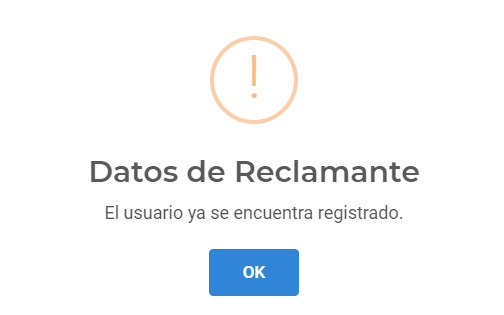
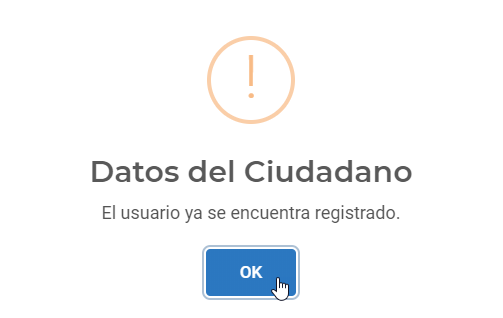
Realizando detalles en crear orden servicio. Ayuda de usuario para usuario municipal y operativo

diff --git a/src/app/pages/crear-orden-servicio/crear-orden-servicio.component.html b/src/app/pages/crear-orden-servicio/crear-orden-servicio.component.html
@@ -7,20 +7,23 @@
                     <div class="form-row">
                         <div class="col-md-6">
                             <label>FECHA DESDE</label>
-                            <input formControlName="fechaDesde" class="form-control" type="date" [max]="maxDate" matTooltip="Seleccionar fecha desde" matTooltipPosition="above">
+                            <input formControlName="fechaDesde" class="form-control" type="date" matTooltip="Seleccionar fecha desde" matTooltipPosition="above">
                         </div>
                         <div class="col-md-6">
                             <label>FECHA HASTA</label>
-                            <input formControlName="fechaHasta" class="form-control" type="date" [max]="maxDate" matTooltip="Seleccionar fecha hasta" matTooltipPosition="above">
+                            <input formControlName="fechaHasta" class="form-control" type="date" matTooltip="Seleccionar fecha hasta" matTooltipPosition="above">
                         </div>
                     </div>
                 </div>
 
                 <div class="row">
                     <div class="col-md-8">
-                        <button class="btn btn-block btnPrimario myBtnCard">
+                        <button (click)="selectReclamo()" class="btn btn-block btnPrimario myBtnCard">
                             Buscar <i class="fa fa-fw fa-search"></i>
                         </button>
+                    </div>
+                    <div class="col-md-4">
+                        <button (click)="this.frmCrearOrdenServicio.reset()" mat-mini-fab class="btnFiltro" class="btnLimpiar" matTooltip="Limpiar campos" matTooltipPosition="left"><i class="material-icons">clear</i></button>
                     </div>
                 </div>
             </form>
@@ -73,6 +76,11 @@
                 <td mat-cell *matCellDef="let element">{{ element.bar_nombre }}</td>
             </ng-container>
 
+            <ng-container matColumnDef="pri_nombre">
+                <th mat-header-cell *matHeaderCellDef>Proridad</th>
+                <td mat-cell *matCellDef="let element">{{ element.pri_nombre }}</td>
+            </ng-container>
+
             <tr mat-header-row *matHeaderRowDef="displayedColumns"></tr>
             <tr mat-row *matRowDef="let row; columns: displayedColumns;" (click)="selection.toggle(row)">
             </tr>
@@ -87,11 +95,11 @@
 <div id="seccionSiguiente" style="visibility: hidden;">
     <div class="form-group" style="float: left !important;">
         <div class="text-center lblCampoObligatorio">
-            *Para generar una Orden de Servicio seleccione al menos 1 reclamo.
+            *Para generar una Orden de Servicio seleccione al menos un reclamo.
         </div>
     </div>
 
-    <button (click)="registrarOrdenServicio()" [disabled]="selection.selected.length === 0" class="btn btn-block btnSiguiente" matTooltip="Registrar Orden de Servicio" matTooltipPosition="left">
+    <button mat-raised-button (click)="registrarOrdenServicio()" [disabled]="selection.selected.length === 0" color="primary" matTooltip="Registrar Orden de Servicio" matTooltipPosition="left" style="float: right;">
         Siguiente <i class="fa fa-fw fa-chevron-right"></i>
     </button>
 </div>

diff --git a/src/app/pages/admin-operativo/reclamo/reclamo.component.html b/src/app/pages/admin-operativo/reclamo/reclamo.component.html
@@ -1,11 +1,11 @@
 <div class="row">
     <div class="col-md-4">
         <mat-form-field>
-            <input matInput (keyup)="applyFilter($event.target.value)" placeholder="Reclamo">
+            <input matInput (keyup)="applyFilter($event.target.value)" placeholder="Tipo de Reclamo">
         </mat-form-field>
         <table mat-table [dataSource]="dataSource" class="mat-elevation-z8">
             <ng-container matColumnDef="tipRec_nombre">
-                <th mat-header-cell *matHeaderCellDef style="width: 300px;">Reclamo</th>
+                <th mat-header-cell *matHeaderCellDef style="width: 300px;">Tipo de Reclamo</th>
                 <td mat-cell *matCellDef="let element">{{ element.tipRec_nombre }}</td>
             </ng-container>
 
@@ -34,9 +34,6 @@
                             <div class="form-row">
                                 <label>NOMBRE*</label>
                                 <input id="txtReclamo" matInput formControlName="nombre" [(ngModel)]="inputRec" type="text" class="form-control inputAbm" placeholder="Ingrese nombre de Tipo de Reclamo">
-                                <button mat-button *ngIf="inputRec !== ''" (click)="resetForm('reclamo')" matSuffix mat-icon-button aria-label="Clear" matTooltip="Borrar texto">
-                                    <i class="material-icons">clear</i>
-                                </button>
                             </div>
                             <br>
                             <div class="form-row">
@@ -46,16 +43,18 @@
                                         {{ item.pri_nombre }}
                                     </mat-option>
                                 </mat-select>
-                                <button mat-button (click)="resetForm('prioridad')" matSuffix mat-icon-button aria-label="Clear" matTooltip="Cancelar selección">
-                                    <i class="material-icons">clear</i>
-                                </button>
                             </div>
                         </div>
                         <div class="form-group">
-                            <div class="col-md-8">
-                                <button id="btnClear" (click)="registrarTipoReclamo()" [disabled]="!frmTipoReclamo.valid" class="btn btn-block btnPrimario myBtnCard">
-                                    Guardar
-                                </button>
+                            <div class="form-row">
+                                <div class="col-md-8">
+                                    <button id="btnClear" (click)="registrarTipoReclamo()" [disabled]="!frmTipoReclamo.valid" class="btn btn-block btnPrimario myBtnCard">
+                                        Guardar
+                                    </button>
+                                </div>
+                                <div class="col-md-4">
+                                    <button (click)="resetForm()" mat-mini-fab class="btnFiltro" class="btnLimpiar" matTooltip="Limpiar campos" matTooltipPosition="left"><i class="material-icons">clear</i></button>
+                                </div>
                             </div>
                         </div>
                     </form>

diff --git a/src/app/pages/crear-orden-servicio/crear-orden-servicio.component.ts b/src/app/pages/crear-orden-servicio/crear-orden-servicio.component.ts
@@ -33,20 +33,18 @@ export class CrearOrdenServicioComponent implements OnInit {
 
   frmCrearOrdenServicio: FormGroup;
   user: Usuario;
+  fechaDesde: string;
+  fechaHasta: string;
+  ingresaFecha: boolean;
   // Objeto que almacena IDAreaServicio para salir a buscar los reclamos en estado "Sin Asignar"
-  objIDArServ: any = {};
+  objFiltro: any = {};
   IDAreaServicio: number;
+  lstReclamo: any = null;
 
-  displayedColumns: string[] = ['select', 'rec_fechaAlta', 'tipRec_nombre', 'rec_direccion', 'bar_nombre'];
+  displayedColumns: string[] = ['select', 'rec_fechaAlta', 'tipRec_nombre', 'rec_direccion', 'bar_nombre', 'pri_nombre'];
   dataSource: MatTableDataSource<ReclamoPendiente>;
   selection = new SelectionModel<ReclamoPendiente>(true, []);
   @ViewChild(MatPaginator, {static: true}) paginator: MatPaginator;
-
-  // VISTA
-  stFiltro: string;
-  objFiltro: any;
-  boFecha = false;
-  lstReclamo: any = null;
 
   constructor(private ddlService: SelectService,
               private router: Router,
@@ -58,24 +56,37 @@ export class CrearOrdenServicioComponent implements OnInit {
 
   ngOnInit() {
     this.frmCrearOrdenServicio = this.formBuilder.group({
-      fechaDesde: null,
-      fechaHasta: null,
-      tipoReclamo: [''],
-      prioridad: [''],
-      barrio: ['']
+      fechaDesde: [null, Validators.required],
+      fechaHasta: [null, Validators.required]
     });
 
-    // Select de Reclamos en estado "Sin Asignar", para añadir a la Orden de Servicio.
+    // Listado de reclamos en estado "Sin Asignar", para añadir a la Orden de Servicio.
+    this.selectReclamosSinAsignar();
+  }
+
+  selectReclamo() {
+    if (this.fechaDesde !== undefined && this.fechaHasta !== undefined) {
+      this.ingresaFecha = true;
+      this.fechaDesde = this.datePipe.transform(this.frmCrearOrdenServicio.controls.fechaDesde.value, 'dd/MM/yyyy');
+      this.fechaHasta = this.datePipe.transform(this.frmCrearOrdenServicio.controls.fechaHasta.value, 'dd/MM/yyyy');
+    }
+
     this.selectReclamosSinAsignar();
   }
 
   async selectReclamosSinAsignar() {
     try {
-      this.objIDArServ = {
-        usu_IDAreaServicio: this.user.usu_IDAreaServicio
-      };
+      if (this.ingresaFecha) {
+        this.objFiltro = {
+          stFiltro: `arServ_IDAreaServicio = ${this.user.usu_IDAreaServicio}` + ' and ' + `rec_fechaAlta between '${this.fechaDesde}'` + ' and ' + `'${this.fechaHasta}'`
+        };
+      } else {
+        this.objFiltro = {
+          stFiltro: `arServ_IDAreaServicio = ${this.user.usu_IDAreaServicio}`
+        };
+      }
 
-      this.reclamoService.selectReclamoSinAsignar(this.objIDArServ).subscribe(data => {
+      this.reclamoService.selectReclamoSinAsignar(this.objFiltro).subscribe(data => {
         if (data !== '[]') {
             this.lstReclamo = JSON.parse(data);
             this.dataSource = new MatTableDataSource<ReclamoPendiente>(this.lstReclamo);

diff --git a/src/app/shared/sidebar/sidebar.component.html b/src/app/shared/sidebar/sidebar.component.html
@@ -62,7 +62,7 @@
                             <span class="hide-menu">Dominio</span></a>
                     <ul aria-expanded="false" class="collapse">
                         <li>
-                            <a [routerLink]="'/area-servicio'" routerLinkActive="active">Area de Servicio</a>
+                            <a [routerLink]="'/area-servicio'" routerLinkActive="active">Área de Servicio</a>
                         </li>
                         <li>
                             <a [routerLink]="'/barrio'" routerLinkActive="active">Barrio</a>
@@ -106,6 +106,9 @@
                         <li>
                             <a [routerLink]="'/ayuda-reportes-municipal'" routerLinkActive="active">¿Cómo visualizar un Reporte?</a>
                         </li>
+                        <li>
+                            <a [routerLink]="'/ayuda-consultar-reclamo-municipal'" routerLinkActive="active">Dominio</a>
+                        </li>
                     </ul>
                 </li>
 
@@ -133,6 +136,21 @@
                         </li>
                         <li>
                             <a [routerLink]="'/usuario'" routerLinkActive="active">Usuario</a>
+                        </li>
+                    </ul>
+                </li>
+                <li *ngIf="user.usu_IDRol === 3 || user.usu_IDRol === 6">
+                    <a class="has-arrow waves-effect waves-dark" aria-expanded="false">
+                        <i class="material-icons">help</i><span class="hide-menu">Ayuda</span></a>
+                    <ul aria-expanded="false" class="collapse">
+                        <li>
+                            <a>¿Cómo registrar una Orden de Servicio?</a>
+                        </li>
+                        <li>
+                            <a>¿Cómo visualizar un Reporte?</a>
+                        </li>
+                        <li>
+                            <a>Dominio</a>
                         </li>
                     </ul>
                 </li>

diff --git a/src/app/pages/reporte/reporte.component.ts b/src/app/pages/reporte/reporte.component.ts
@@ -1,8 +1,8 @@
-import { Component, OnInit } from '@angular/core';
+import { Component, OnInit, ViewChild } from '@angular/core';
 import { FormGroup, FormBuilder, Validators } from '@angular/forms';
-import { ChartsModule, Label, MultiDataSet, SingleDataSet } from 'ng2-charts';
+import { Label } from 'ng2-charts';
 import { DatePipe } from '@angular/common';
-import { ChartType, ChartDataSets } from 'chart.js';
+import { ChartType, ChartOptions, ChartData } from 'chart.js';
 
 // ENTIDADES
 import { ReporteService } from '../../services/reporte.service';
@@ -12,6 +12,7 @@ import { Usuario } from '../../_entities/usuario.entities';
 // SERVICIOS
 import { SelectService } from '../../services/select-service.service';
 import { ReclamoService } from '../../services/reclamo.service';
+import * as Chart from 'chart.js';
 
 @Component({
   selector: 'app-reporte',
@@ -37,7 +38,9 @@ export class ReporteComponent implements OnInit {
     { stReporte: 'OrdServPorEstado', reporte: 'Reporte de Ordenes de Servicio por Estado' },
   ];
 
-  // Gráfico Circular
+  // GRAFICO CIRCULAR
+  // Para mostrar labels en el gráfico sin tener que pasar el cursor por encima
+  // public pieChartOptions: ChartOptions = { };
   public pieChartLabels: Label[] = [];
   public pieChartData: number[] = [];
   public pieChartType: ChartType = 'pie';
@@ -46,6 +49,7 @@ export class ReporteComponent implements OnInit {
       'rgba(151,90,251,0.85)', 'rgba(251,90,161,0.85)', 'rgba(205,98,205,0.85)', 'rgba(24,162,218,0.85)', 'rgba(20,161,8,0.85)']
     },
   ];
+
 
   constructor(private ddlService: SelectService,
               private formBuilder: FormBuilder,

diff --git a/src/app/pages/admin-operativo/reclamo/reclamo.component.ts b/src/app/pages/admin-operativo/reclamo/reclamo.component.ts
@@ -98,7 +98,7 @@ export class ReclamoComponent implements OnInit {
               'success'
             );
 
-            this.resetForm('');
+            this.resetForm();
             this.selectTipoReclamo();
           } else {
             Swal.close();
@@ -108,7 +108,7 @@ export class ReclamoComponent implements OnInit {
               'warning'
             );
 
-            this.resetForm('');
+            this.resetForm();
           }
         });
     } catch (error) {
@@ -123,16 +123,8 @@ export class ReclamoComponent implements OnInit {
     this.f.prioridad.patchValue(this.arrPrioridad[IDPri].pri_IDPrioridad);
   }
 
-  resetForm(stValue: string) {
-    if (stValue === 'reclamo') {
-      this.inputRec = '';
-    } else if (stValue === 'prioridad') {
-      this.inputPri = '';
-    } else {
-      this.inputRec = '';
-      this.inputPri = '';
-    }
-
+  resetForm() {
+    this.frmTipoReclamo.reset();
     this.boBand = true;
     document.getElementById('txtReclamo').focus();
   }

diff --git a/src/app/pages/registrar-orden-servicio/registrar-orden-servicio.component.ts b/src/app/pages/registrar-orden-servicio/registrar-orden-servicio.component.ts
@@ -174,7 +174,7 @@ export class RegistrarOrdenServicioComponent implements OnInit {
                           text: 'La Orden de Servicio se registró correctamente. Número de Orden: ' + this.objDetalle.ordServ_numero
                         }).then(result => {
                           if (result.value) {
-                            this.router.navigateByUrl('/crear-ordenServicio');
+                            this.router.navigateByUrl('/crear-orden-servicio');
                           }
                         });
                       }

diff --git a/src/app/pages/registrar-orden-servicio/registrar-orden-servicio.component.html b/src/app/pages/registrar-orden-servicio/registrar-orden-servicio.component.html
@@ -9,7 +9,7 @@
                     <div class="form-row">
                         <div class="col-md-6">
                             <label>FECHA ALTA*</label>
-                            <input [value]="fechaHoy" formControlName="fechaDesde" class="form-control" type="date">
+                            <input formControlName="fechaDesde" class="form-control" type="date">
                         </div>
                         <div class="col-md-6">
                             <label>FECHA VENCIMIENTO*</label>

diff --git a/src/app/pages/admin-municipal/usuario/usuario.component.ts b/src/app/pages/admin-municipal/usuario/usuario.component.ts
@@ -187,16 +187,7 @@ export class UsuarioComponent implements OnInit {
   }
 
   resetForm() {
-    this.frmRegistrarUsuario.reset({
-      dni: '',
-      usuario: '',
-      password: '',
-      nombre: '',
-      apellido: '',
-      telefono: '',
-      email: ''
-    });
-
+    this.frmRegistrarUsuario.reset();
     this.boBand = true;
     document.getElementById('inputDNI').focus();
   }

diff --git a/src/app/pages/generar-reclamo/generar-reclamo-municipal/generar-reclamo-municipal.component.ts b/src/app/pages/generar-reclamo/generar-reclamo-municipal/generar-reclamo-municipal.component.ts
@@ -141,7 +141,7 @@ export class GenerarReclamoMunicipalComponent implements OnInit {
           Swal.fire({
             allowOutsideClick: false,
             type: 'warning',
-            title: 'Datos de Reclamante',
+            title: 'Datos del Ciudadano',
             text: 'El usuario ya se encuentra registrado.'
           }).then(result => {
               if (result.value) {

diff --git a/src/app/pages/reporte/reporte.component.html b/src/app/pages/reporte/reporte.component.html
@@ -78,7 +78,7 @@
                 <h2 id="tituloReporte"></h2>
                 <div class="chart">
                     <canvas baseChart [data]="pieChartData" [labels]="pieChartLabels" [chartType]="pieChartType" [colors]="pieChartColors">
-                                    </canvas>
+                    </canvas>
                 </div>
             </div>
         </div>

diff --git a/src/app/login/register.component.ts b/src/app/login/register.component.ts
@@ -75,7 +75,7 @@ export class RegisterComponent implements OnInit {
         Swal.close();
         Swal.fire(
           'Registro',
-          'Usuario' + this.objUsuario.usu_username + ' creado con éxito!',
+          'Usuario ' + this.objUsuario.usu_username + ' creado con éxito!',
           'success'
         );
       } else {
